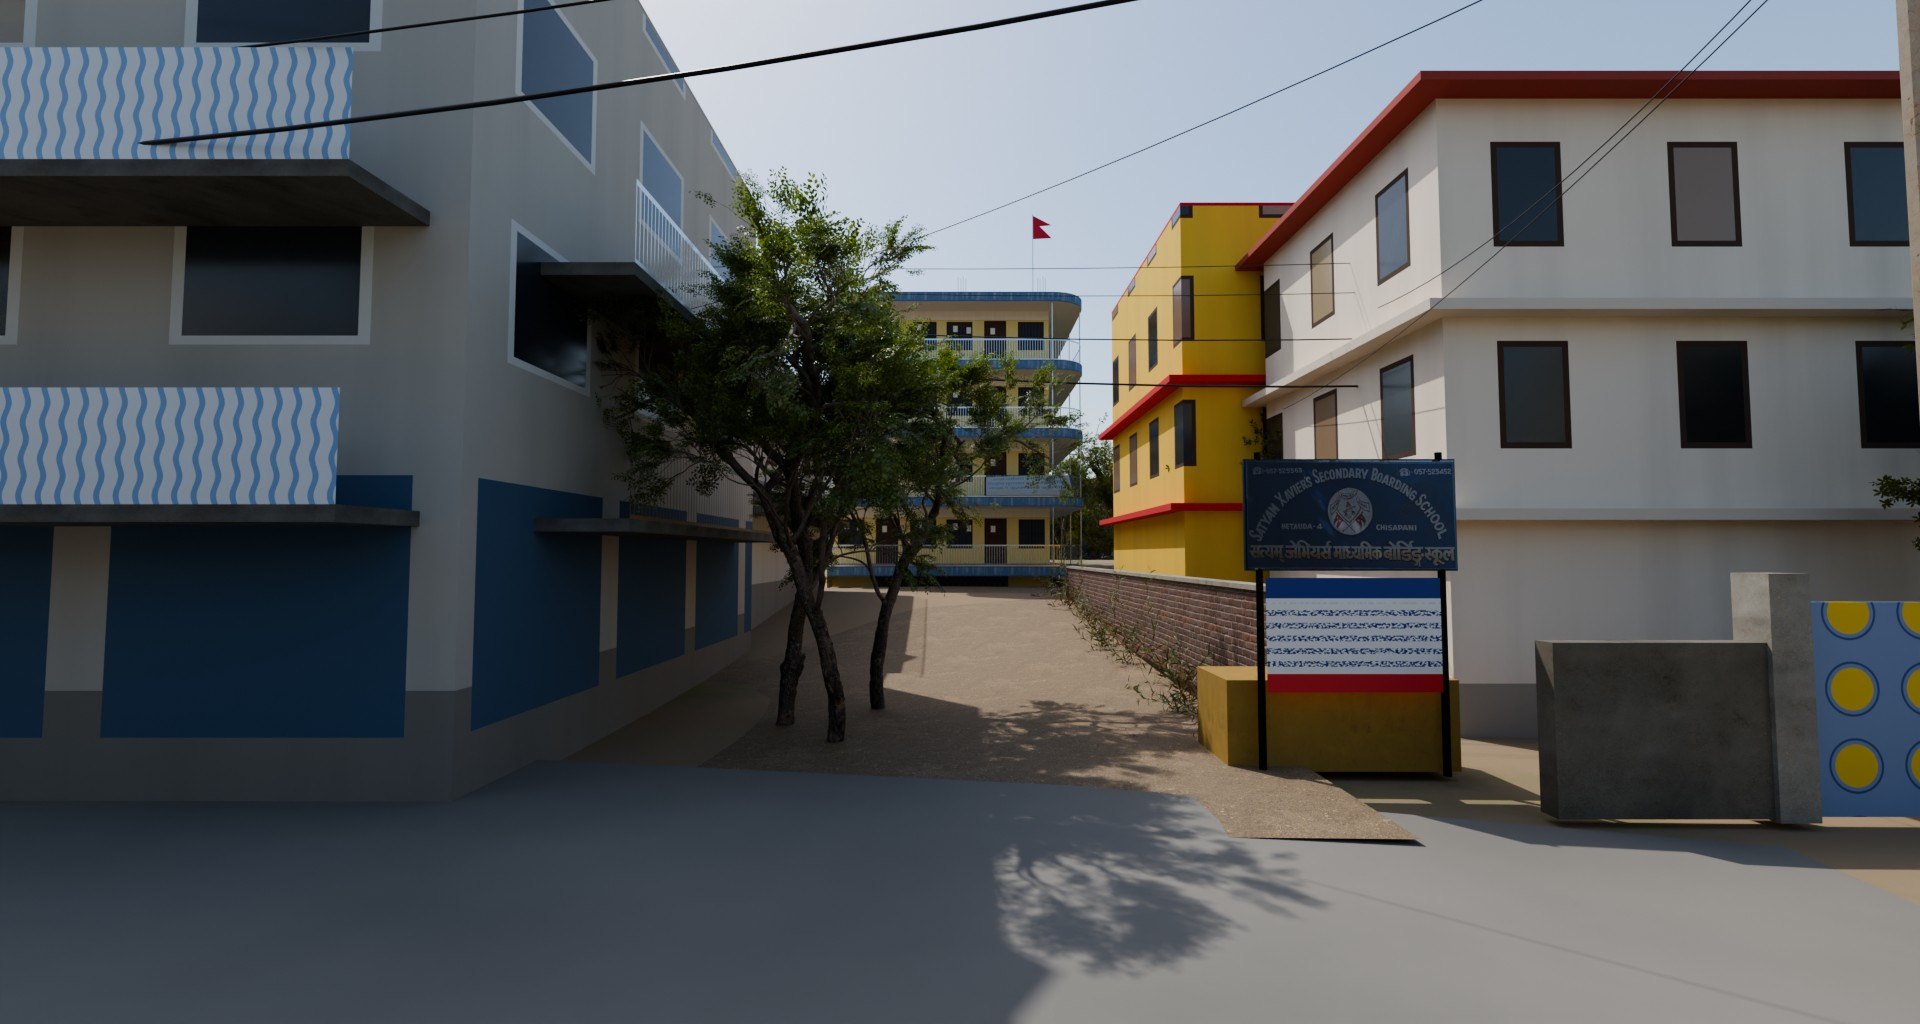
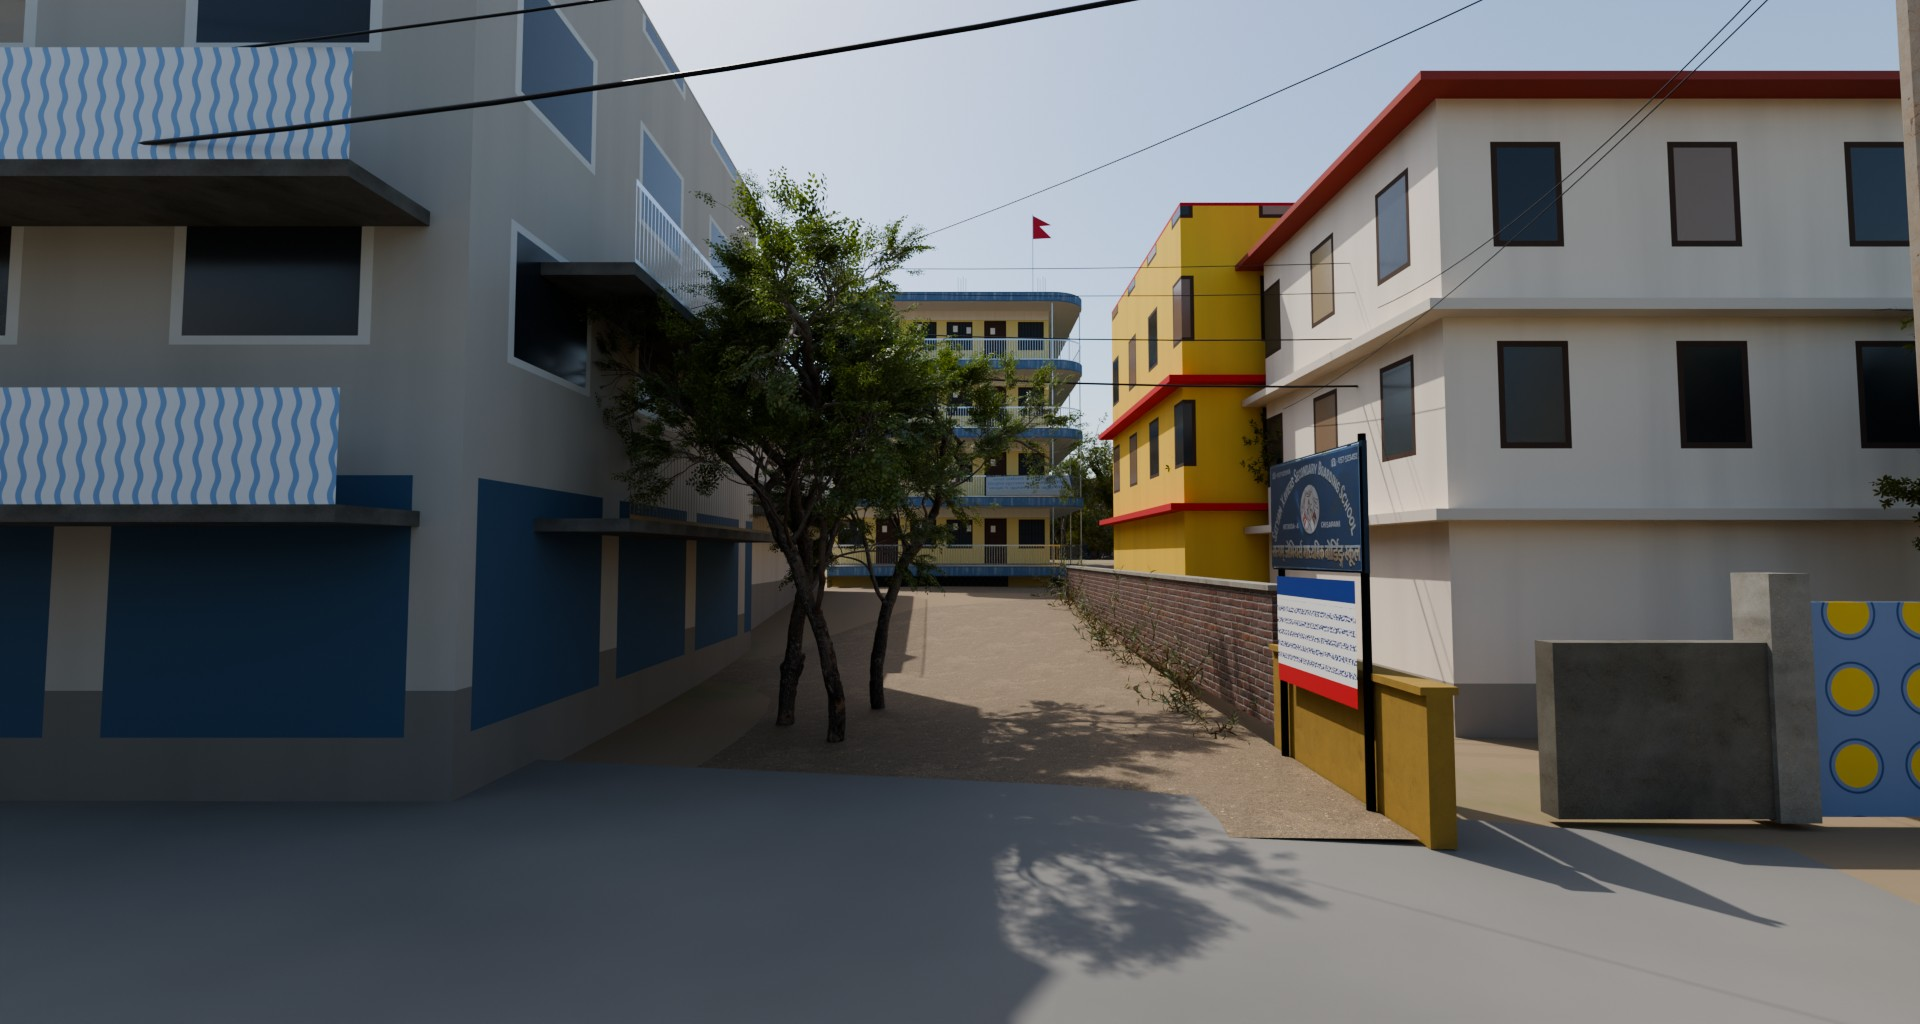
fix(website): the school's signboard faces across the driveway
IMG_3014 was taken facing 346 degrees with the board square on to it: the
board stands along the driveway's right-hand wall, over a short run of
yellow plaster, its face turned across the driveway, not out to the road.
The admission board hangs below it; brick runs on deeper in.

Changed region(s): [[0.625, 0.4062, 0.9375, 0.9062]]

diff --git a/website/src/sections/Arrival.tsx b/website/src/sections/Arrival.tsx
@@ -10,8 +10,8 @@ import { arrive, pointer } from '../three/rig';
  * so it is the first thing on screen while the 3D scene loads behind it.
  */
 const VIEWS = [
-  { color: '/models/env/street_color_10112238.webp', depth: '/models/env/street_depth_10112238.png', focus: [0.5, 0.66] },
-  { color: '/models/env/driveway_color_10112238.webp', depth: '/models/env/driveway_depth_10112238.png', focus: [0.53, 0.62] },
+  { color: '/models/env/street_color_10112246.webp', depth: '/models/env/street_depth_10112246.png', focus: [0.5, 0.66] },
+  { color: '/models/env/driveway_color_10112246.webp', depth: '/models/env/driveway_depth_10112246.png', focus: [0.53, 0.62] },
 ] as const;
 
 const VERT = `attribute vec2 p; varying vec2 v; void main() { v = p * .5 + .5; gl_Position = vec4(p, 0., 1.); }`;

diff --git a/website/model/env/env_street.py b/website/model/env/env_street.py
@@ -160,19 +160,22 @@ strip('GEO-driveway', -0.2, 30.5, -3.1, 5.8, MAT['drive'])
 strip('GEO-school_forecourt', 20.0, 31.0, -8.0, 9.0, MAT['drive'], lift=0.05)
 
 # --- right side: brick wall along the driveway, the signboard at its start, the gate on the road ------------------
-box('GEO-brick_wall', 2.6, 24.0, -3.35, -3.12, 0, 1.75, MAT['brick'])
-box('GEO-brick_wall_cap', 2.6, 24.0, -3.4, -3.07, 1.75, 1.82, MAT['pillar'])
-box('GEO-yellow_low_wall', 2.2, 3.4, -4.9, -2.2, 0, 1.05, MAT['yellow'])
-# the signboard on two black posts, facing the road (its face looks along -U); the admission board below it
-SS = 2.0
-sg = gz(SS, -3.6)
-for t in (-2.55, -4.65):
-    cylinder(f'GEO-sign_post_{t}', W(SS + 0.05, t, sg), 3.7, 0.045, MAT['steel'])
+# The right-hand wall: a short run of yellow plaster at the mouth, then brick deeper in (IMG_3014).
+box('GEO-yellow_wall', -0.3, 3.2, -3.35, -3.12, 0, 1.3, MAT['yellow'])
+box('GEO-yellow_wall_cap', -0.3, 3.2, -3.4, -3.07, 1.3, 1.37, MAT['yellow'])
+box('GEO-brick_wall', 3.2, 24.0, -3.35, -3.12, 0, 1.75, MAT['brick'])
+box('GEO-brick_wall_cap', 3.2, 24.0, -3.4, -3.07, 1.75, 1.82, MAT['pillar'])
+# The signboard stands on two black posts over the yellow wall, along it, its face turned across the
+# driveway (IMG_3014: the phone faced 346 degrees, the board faced back at it). The admission board
+# hangs below it. Faces look towards +L (the driveway's left); the picture reads from deeper in to the road.
+SG0, SG1, TS = 0.5, 2.8, -2.98
+sg = gz((SG0 + SG1) / 2, TS)
+for s_ in (SG0 + 0.1, SG1 - 0.1):
+    cylinder(f'GEO-sign_post_{s_}', W(s_, TS - 0.08, sg), 3.7, 0.045, MAT['steel'])
 b0, b1 = sg + 2.35, sg + 3.6          # 2.3 m x 1.25 m board
-plane('GEO-signboard', [W(SS, -2.4, b0), W(SS, -4.8, b0), W(SS, -4.8, b1), W(SS, -2.4, b1)],
+plane('GEO-signboard', [W(SG1, TS, b0), W(SG0, TS, b0), W(SG0, TS, b1), W(SG1, TS, b1)],
       MAT['sign'], [(0, 0), (1, 0), (1, 1), (0, 1)])
-box('GEO-signboard_back', SS + 0.02, SS + 0.07, -4.82, -2.38, 2.33, 3.62, MAT['sign_back'])
-
+box('GEO-signboard_back', SG0 - 0.02, SG1 + 0.02, TS - 0.07, TS - 0.02, 2.33, 3.62, MAT['sign_back'])
 def admission_material():
     m, nt = new_mat('MAT-admission_board')
     uv = nt.nodes.new('ShaderNodeUVMap'); uv.uv_map = 'UVMap'
@@ -190,7 +193,7 @@ def admission_material():
     bb = node(nt, 'ShaderNodeBsdfPrincipled', (300, 0), Roughness=0.5)
     nt.links.new(c, bb.inputs['Base Color']); finish(nt, bb.outputs[0]); return m
 MAT['admission'] = admission_material()
-plane('GEO-admission_board', [W(SS, -2.6, sg + 0.95), W(SS, -4.6, sg + 0.95), W(SS, -4.6, sg + 2.25), W(SS, -2.6, sg + 2.25)],
+plane('GEO-admission_board', [W(SG1 - 0.15, TS, sg + 1.0), W(SG0 + 0.15, TS, sg + 1.0), W(SG0 + 0.15, TS, sg + 2.25), W(SG1 - 0.15, TS, sg + 2.25)],
       MAT['admission'], [(0, 0), (1, 0), (1, 1), (0, 1)])
 
 # the blue gate with yellow circles, between two white pillars, in a block wall along the road
